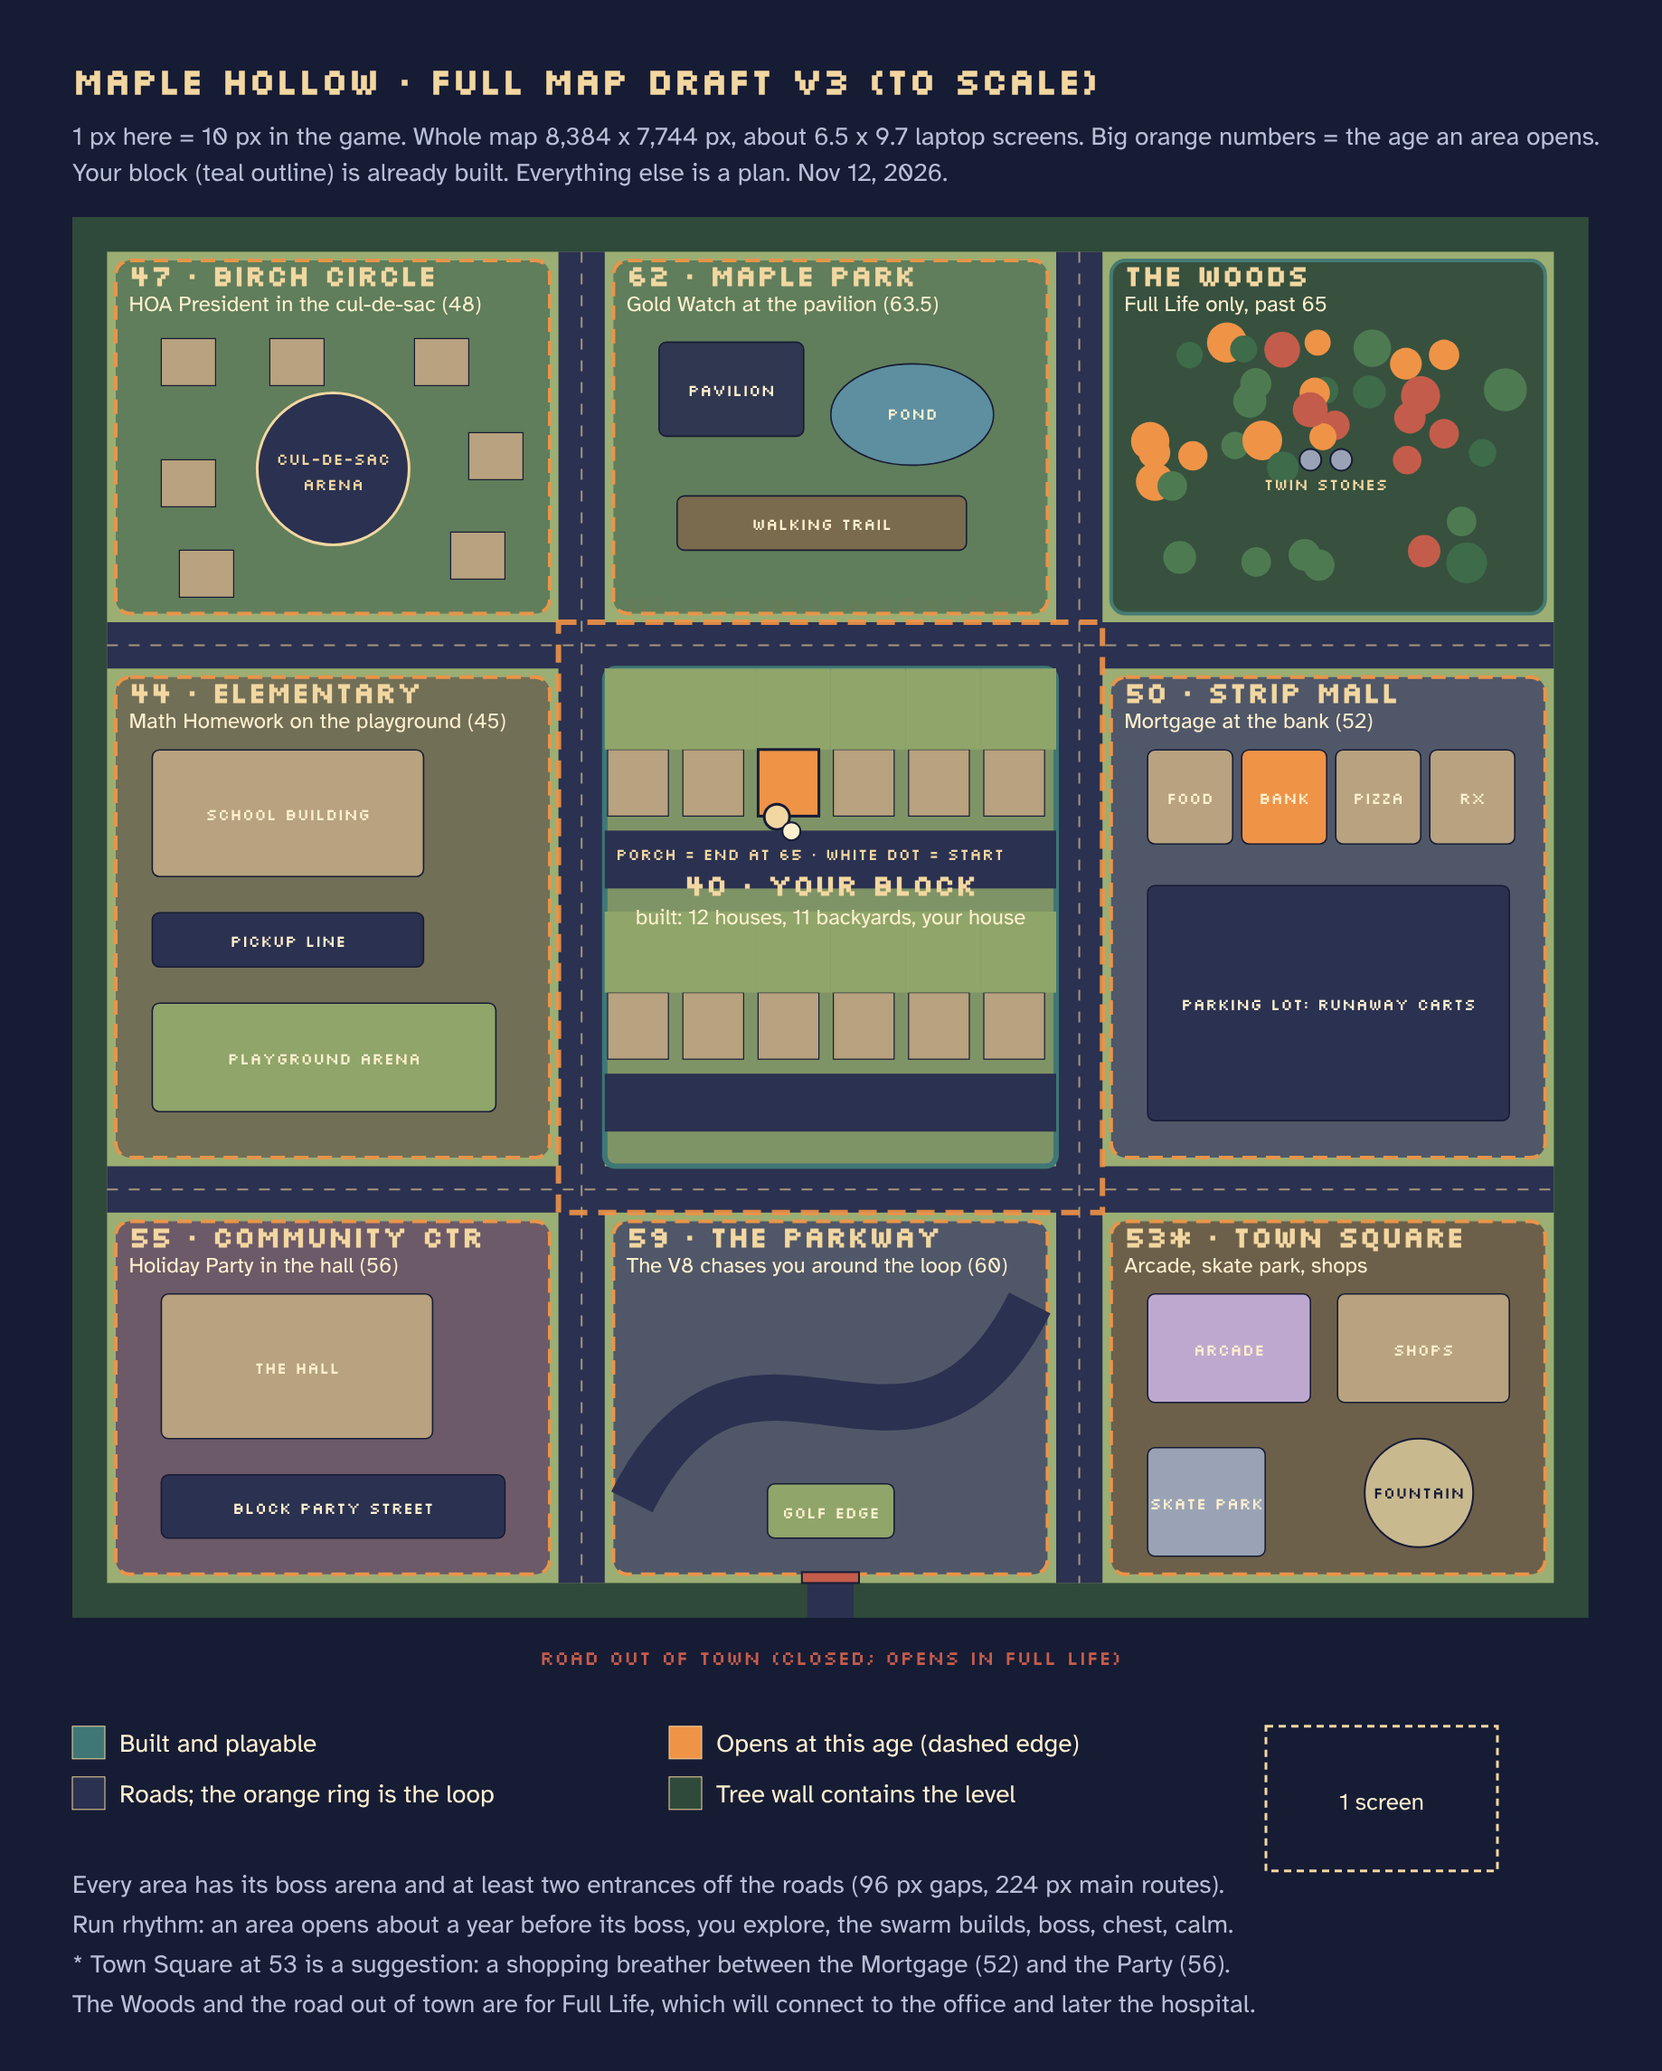
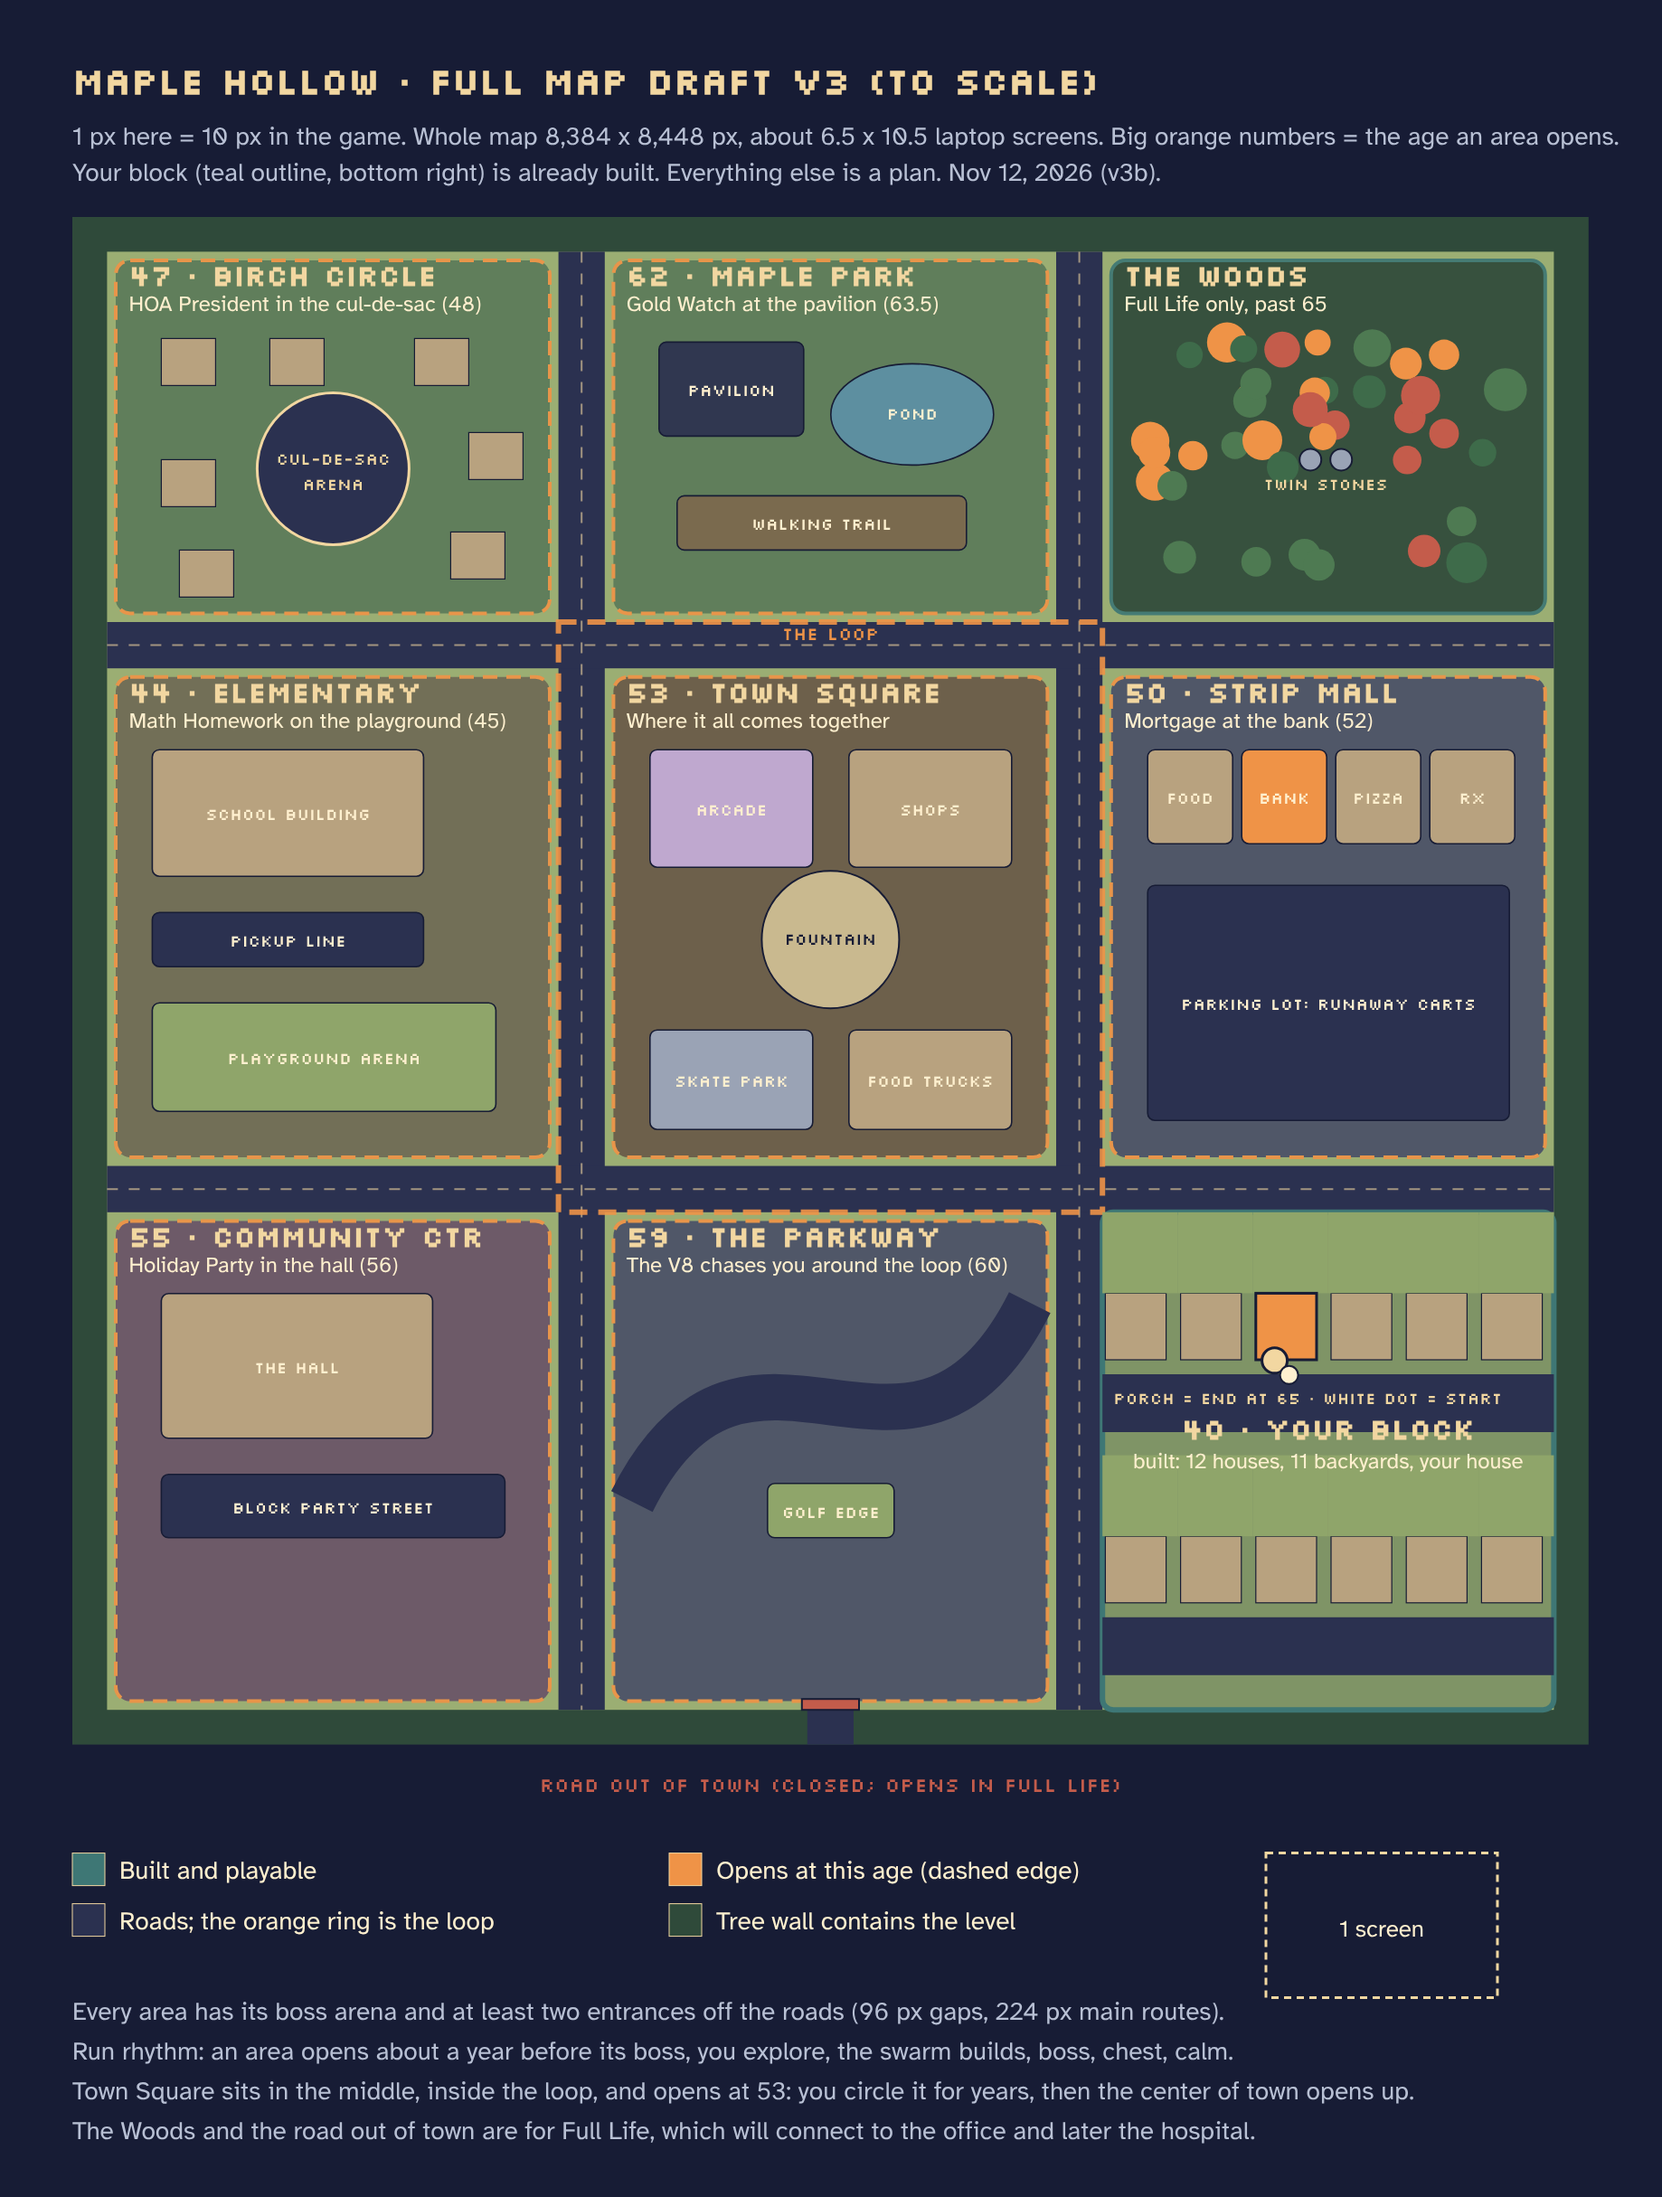
Map v3b: Town Square in the center, your block bottom right
Claude-Session: https://claude.ai/code/session_01Lig4WNp7bCi6KogUpzQhxR

diff --git a/tools/home_map_v3.py b/tools/home_map_v3.py
@@ -1,7 +1,7 @@
 # Maple Hollow full map v3, to scale: 1 svg px = 10 game px
 S=0.1
 NAVY="#171C35"; SLATE="#303750"; TEAL="#3E7775"; SAGE="#83A89A"; CREAM="#F2D7A1"; COFFEE="#EF9347"; RUSSET="#C45C4B"; GRASS="#9BAE73"; ROAD="#2B3150"; TREE="#2F4A3A"; PAPER="#FFF0CF"; LAV="#BFA8CF"
-WALL=192; COLW=2496; ROAD_W=256; R1=2048; R2=2752; R3=2048
+WALL=192; COLW=2496; ROAD_W=256; R1=2048; R2=2752; R3=2752
 xs=[WALL, WALL+COLW+ROAD_W, WALL+2*(COLW+ROAD_W)]
 ys=[WALL, WALL+R1+ROAD_W, WALL+R1+ROAD_W+R2+ROAD_W]
 hs=[R1,R2,R3]
@@ -21,8 +21,8 @@ SW=W*S+80; SH=H*S+120+250
 out.append(f'<svg xmlns="http://www.w3.org/2000/svg" width="{SW:.0f}" height="{SH:.0f}" viewBox="0 0 {SW:.0f} {SH:.0f}">')
 out.append(f'<rect width="100%" height="100%" fill="{NAVY}"/>')
 out.append(f'<text x="40" y="52" font-family="Silkscreen, \'Courier New\', monospace" font-size="20" fill="{CREAM}" font-weight="700">MAPLE HOLLOW · FULL MAP DRAFT V3 (TO SCALE)</text>')
-out.append(f'<text x="40" y="80" font-family="Atkinson Hyperlegible, Arial, sans-serif" font-size="14" fill="#B8C0D4">1 px here = 10 px in the game. Whole map 8,384 x 7,744 px, about 6.5 x 9.7 laptop screens. Big orange numbers = the age an area opens.</text>')
-out.append(f'<text x="40" y="100" font-family="Atkinson Hyperlegible, Arial, sans-serif" font-size="14" fill="#B8C0D4">Your block (teal outline) is already built. Everything else is a plan. Nov 12, 2026.</text>')
+out.append(f'<text x="40" y="80" font-family="Atkinson Hyperlegible, Arial, sans-serif" font-size="14" fill="#B8C0D4">1 px here = 10 px in the game. Whole map 8,384 x 8,448 px, about 6.5 x 10.5 laptop screens. Big orange numbers = the age an area opens.</text>')
+out.append(f'<text x="40" y="100" font-family="Atkinson Hyperlegible, Arial, sans-serif" font-size="14" fill="#B8C0D4">Your block (teal outline, bottom right) is already built. Everything else is a plan. Nov 12, 2026 (v3b).</text>')
 # tree wall + base
 r(0,0,W,H,TREE)
 r(WALL,WALL,W-2*WALL,H-2*WALL,GRASS)
@@ -37,7 +37,7 @@ for y in (ys[0]+R1+ROAD_W/2, ys[1]+R2+ROAD_W/2):
 # loop road highlight around center block
 lx,ly=xs[1]-ROAD_W,ys[1]-ROAD_W
 out.append(f'<rect x="{OX+lx*S:.1f}" y="{OY+ly*S:.1f}" width="{(COLW+2*ROAD_W)*S:.1f}" height="{(R2+2*ROAD_W)*S:.1f}" fill="none" stroke="{COFFEE}" stroke-width="3" stroke-dasharray="10 6" opacity=".9"/>')
-t(xs[1]+COLW/2, ly-60, "THE LOOP (Maple Lane ring road)", 11, COFFEE, "middle")
+t(xs[1]+COLW/2, ly+100, "THE LOOP", 10, COFFEE, "middle")
 # road names
 # districts: (col,row,name,age,line,color)
 D={}
@@ -54,9 +54,9 @@ district(0,1,"ELEMENTARY","44","Math Homework on the playground (45)","#6F6A55")
 district(2,1,"STRIP MALL","50","Mortgage at the bank (52)","#4A5068")
 district(0,2,"COMMUNITY CTR","55","Holiday Party in the hall (56)","#6A5368")
 district(1,2,"THE PARKWAY","59","The V8 chases you around the loop (60)","#4A5068")
-district(2,2,"TOWN SQUARE","53*","Arcade, skate park, shops","#6A5A48")
-# center (built)
-x,y=xs[1],ys[1]
+district(1,1,"TOWN SQUARE","53","Where it all comes together","#6A5A48")
+# your block (built), bottom right
+x,y=xs[2],ys[2]
 r(x,y,COLW,R2,"#7F9466",TEAL,3,6)
 # rows of houses
 for row_top in (448,1792):
@@ -109,10 +109,11 @@ r(rx0,H-WALL,256,WALL,ROAD)
 r(rx0-30,H-WALL-60,316,60,RUSSET,NAVY,1)
 t(xs[1]+COLW/2,H+260,"ROAD OUT OF TOWN (closed; opens in Full Life)",11,RUSSET,"middle")
 # town square
-feat(2,2,250,450,900,600,"ARCADE",LAV)
-feat(2,2,1300,450,950,600,"SHOPS","#B8A27F")
-X,Y,_,_=D[(2,2)]; c(X+1750,Y+1550,300,"#C9B98F",NAVY,1); t(X+1750,Y+1580,"FOUNTAIN",9,NAVY,"middle")
-feat(2,2,250,1300,650,600,"SKATE PARK","#9AA3B5")
+feat(1,1,250,450,900,650,"ARCADE",LAV)
+feat(1,1,1350,450,900,650,"SHOPS","#B8A27F")
+X,Y,_,_=D[(1,1)]; c(X+1248,Y+1500,380,"#C9B98F",NAVY,1); t(X+1248,Y+1530,"FOUNTAIN",9,NAVY,"middle")
+feat(1,1,250,2000,900,550,"SKATE PARK","#9AA3B5")
+feat(1,1,1350,2000,900,550,"FOOD TRUCKS","#B8A27F")
 # screen scale
 # legend
 LY=OY+H*S+60
@@ -126,10 +127,11 @@ out.append(f'<text x="{700+64}" y="{LY+46}" font-family="Atkinson Hyperlegible, 
 LY+=40
 notes=["Every area has its boss arena and at least two entrances off the roads (96 px gaps, 224 px main routes).",
        "Run rhythm: an area opens about a year before its boss, you explore, the swarm builds, boss, chest, calm.",
-       "* Town Square at 53 is a suggestion: a shopping breather between the Mortgage (52) and the Party (56).",
+       "Town Square sits in the middle, inside the loop, and opens at 53: you circle it for years, then the center of town opens up.",
        "The Woods and the road out of town are for Full Life, which will connect to the office and later the hospital."]
 for i,n in enumerate(notes):
     out.append(f'<text x="40" y="{LY+52+i*22}" font-family="Atkinson Hyperlegible, Arial, sans-serif" font-size="14" fill="#B8C0D4">{n}</text>')
 out.append('</svg>')
-open("home-map-v3.svg","w").write("\n".join(out))
+import sys
+open(sys.argv[1] if len(sys.argv)>1 else "home-map-v3.svg","w").write("\n".join(out))
 print(SW,SH)

diff --git a/docs/GAME_DESIGN.md b/docs/GAME_DESIGN.md
@@ -753,5 +753,6 @@ Home interior identity corrected from Rami’s photo brief: work desk in downsta
 - New area: a busy town square with an arcade, a skate park and a few shops.
 - The map should feel BIG.
 - The run ends back home on your porch.
-- To-scale draft: `docs/plans/home-map-v3.png` (8,384 x 7,744 px, about 6.5 x 9.7 screens). Town Square at 53 is a suggestion, not decided.
+- To-scale draft v3b: `docs/plans/home-map-v3.png` (8,384 x 8,448 px, about 6.5 x 10.5 screens; Rami: feels right for 19 minutes).
+- Town Square is the center of the map, inside the loop, and opens at 53 (Rami: "where the game will really come together"). Your block moves to the bottom right corner, so the run starts and ends in a corner.
 - Idea, not decided: in Full Life, stages connect (office, Maple Hollow, hospital, later others) with growing swarms and giant bosses. Claude suggests stages joined by roads rather than one seamless map, and a closed road out of town on Maple Hollow's edge for now. Confirmed: Midlife stays 40 to 65 (about 19 min); Full Life should last at least 30 min (it runs about an hour now).
